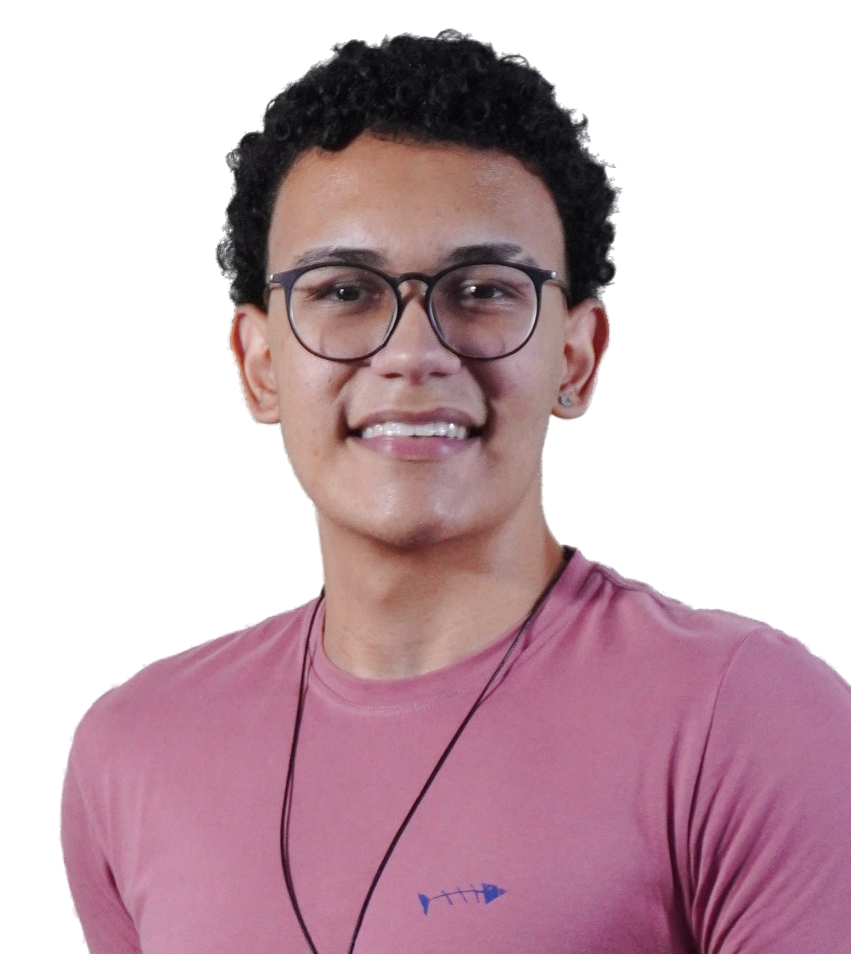
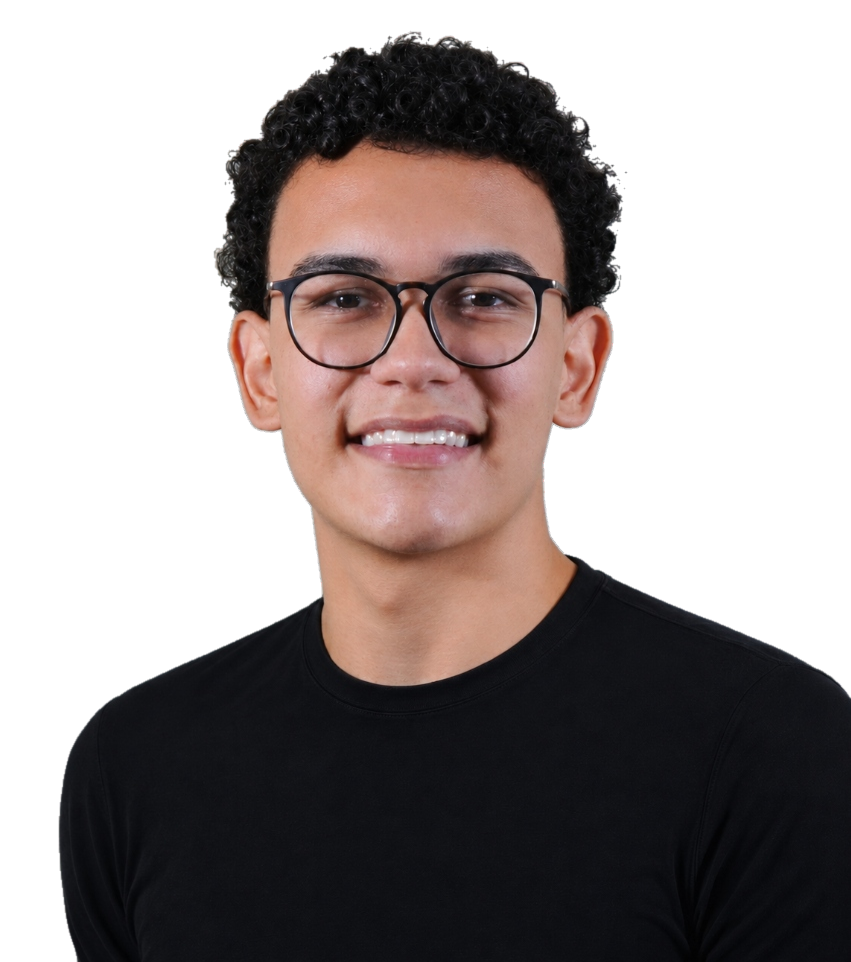
Update hero portrait and fix spotlight fade-out flash

diff --git a/src/components/Hero.tsx b/src/components/Hero.tsx
@@ -76,7 +76,10 @@ export function Hero() {
     }
   };
 
-  const handlePointerLeave = () => {
+  const handlePointerLeave = (event: PointerEvent<HTMLDivElement>) => {
+    if (event.pointerType !== 'touch') {
+      updatePointerCoords(event);
+    }
     setIsSpotlightActive(false);
   };
 
@@ -93,18 +96,16 @@ export function Hero() {
 
   const showFullColor = isTouchRevealed || (prefersReducedMotion && isSpotlightActive);
   const spotlightMask =
-    !showFullColor && isSpotlightActive && !prefersReducedMotion
-      ? 'radial-gradient(circle 135px at var(--mx, 50%) var(--my, 42%), rgba(0, 0, 0, 1) 0%, rgba(0, 0, 0, 0.92) 52%, rgba(0, 0, 0, 0) 100%)'
-      : undefined;
+    'radial-gradient(circle 135px at var(--mx, 50%) var(--my, 42%), rgba(0, 0, 0, 1) 0%, rgba(0, 0, 0, 0.92) 52%, rgba(0, 0, 0, 0) 100%)';
 
-  const colorLayerStyle: CSSProperties = {
-    opacity: showFullColor || isSpotlightActive ? 1 : 0,
-    ...(spotlightMask
-      ? {
-          WebkitMaskImage: spotlightMask,
-          maskImage: spotlightMask,
-        }
-      : {}),
+  const spotlightLayerStyle: CSSProperties = {
+    opacity: isSpotlightActive && !prefersReducedMotion ? 1 : 0,
+    WebkitMaskImage: spotlightMask,
+    maskImage: spotlightMask,
+  };
+
+  const fullColorLayerStyle: CSSProperties = {
+    opacity: showFullColor ? 1 : 0,
   };
 
   return (
@@ -185,12 +186,23 @@ export function Hero() {
                 className="pointer-events-none block h-auto max-h-[430px] w-full object-contain object-bottom grayscale contrast-[1.05] sm:max-h-[490px] lg:max-h-[580px] xl:max-h-[640px]"
               />
 
-              {/* Full-color radial spotlight layer */}
+              {/* Radial color spotlight layer (mask stays attached during fade-out) */}
+              {!prefersReducedMotion && (
+                <img
+                  src={SITE_META.portraitSrc}
+                  alt=""
+                  aria-hidden="true"
+                  style={spotlightLayerStyle}
+                  className="pointer-events-none absolute inset-0 block h-full w-full object-contain object-bottom transition-opacity duration-300 ease-out"
+                />
+              )}
+
+              {/* Full-color reveal layer (click/tap toggle or reduced-motion hover) */}
               <img
                 src={SITE_META.portraitSrc}
                 alt=""
                 aria-hidden="true"
-                style={colorLayerStyle}
+                style={fullColorLayerStyle}
                 className="pointer-events-none absolute inset-0 block h-full w-full object-contain object-bottom transition-opacity duration-300 ease-out"
               />
             </div>
